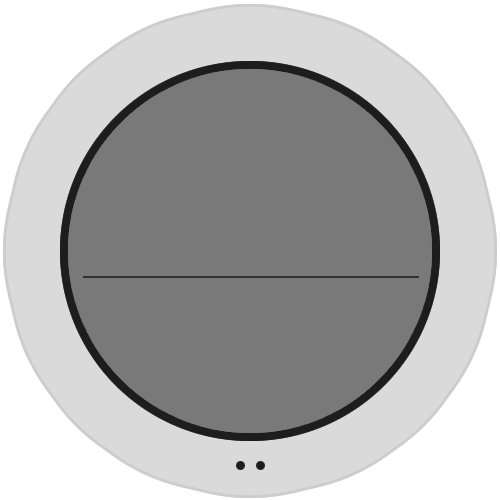
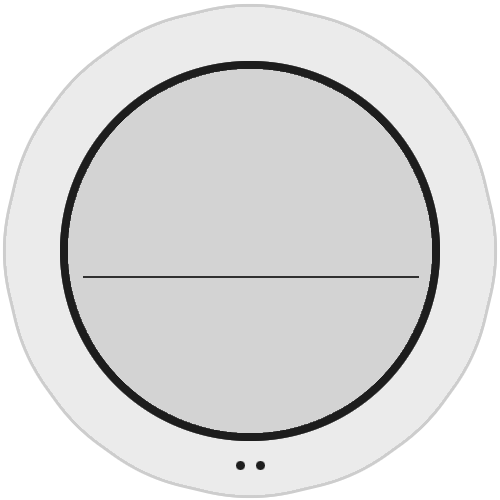
Adaptation HygroThermographe pour nextdom

diff --git a/views/templates/dashboard/cmd.info.numeric.HygroThermographe.html b/views/templates/dashboard/cmd.info.numeric.HygroThermographe.html
@@ -3,6 +3,8 @@
   <span class="intNumTemp fontDigital value"></span>
   <span class="decNumTemp fontDigital value"></span>
   <span class="uniteTemp fontDigital">°C</span>
+  <span class="numTempMin fontDigital value"></span>
+  <span class="numTempMax fontDigital value"></span>
   <span class="intNumHumidity fontDigital value"></span>
   <span class="decNumHumidity fontDigital value"></span>
   <span class="uniteHumidity fontDigital">%</span>
@@ -19,7 +21,7 @@
     .widget-hygrothermographe span.fontDigital{
       font-family: "Digital-7";
       position: absolute;
-      color: 	#181818;
+      color: #e0e4ea;
     }
     .widget-hygrothermographe span.fontDigital.value{
       transform : scale(0.7,1);
@@ -33,53 +35,102 @@
     }
     .widget-hygrothermographe span.intNumTemp {
       font-size:80px;
-      letter-spacing: 6px;
+      letter-spacing: 4px;
       top: 80px;
-      right: 7px;
+      right: 80px;
     }
     .widget-hygrothermographe span.decNumTemp {
       font-size:50px;
       top: 90px;
-      right: -30px;
-    }
-    .widget-hygrothermographe span.uniteTemp {
-      font-size:20px;
-      font-weight: bold;
-      top: 55px;
-      right: 85px;
+      right: 76px;
     }
     .widget-hygrothermographe span.intNumHumidity {
-      font-size: 65px;
-      letter-spacing: 6px;
-      top: 143px;
-      right: 4px;
+      font-size: 60px;
+      letter-spacing: 3px;
+      top: 145px;
+      right: 80px;
     }
     .widget-hygrothermographe span.decNumHumidity {
       font-size:35px;
-      top: 154px;
-      right: -32px;
+      top: 153px;
+      right: 79px;
+    }
+    .widget-hygrothermographe span.uniteTemp {
+      top: 55px;
+      right: 90px;
     }
     .widget-hygrothermographe span.uniteHumidity {
-      display : none;
-      font-size:20px;
-      font-weight: bold;
       top: 130px;
-      right: 85px;
+      right: 88px;
+    }
+    .widget-hygrothermographe span.uniteTemp ,
+    .widget-hygrothermographe span.uniteHumidity {
+       display : none;
+       font-weight: bold;
+    }
+    .widget-hygrothermographe span.numTempMax ,
+    .widget-hygrothermographe span.numTempMin,
+    .widget-hygrothermographe span.uniteTemp ,
+    .widget-hygrothermographe span.uniteHumidity {
+         font-family: "roboto";
+         font-size:18px;
+     }
+
+    .widget-hygrothermographe span.numTempMax ,
+    .widget-hygrothermographe span.numTempMin {
+         right: 36px;
+     }
+    .widget-hygrothermographe span.numTempMax {
+      color: lawngreen;
+      top: 80px;
+    }
+    .widget-hygrothermographe span.numTempMin {
+      color: #dd8c1a;
+      top: 97px;
     }
   </style>
   <script>
+    function setTheme(theme){
+      var cmd = $('.cmd[data-cmd_id=#id#]');
+      if (theme === 'Light') {
+        cmd.find('.hygrothermographe-background').attr('src', 'core/template/dashboard/cmd.info.numeric.HygroThermographe/No.ext_100_Light.png');
+        $('.widget-hygrothermographe span.fontDigital').css('color', '#181818');
+        $('.widget-hygrothermographe span.numTempMin').css('color', 'red');
+        $('.widget-hygrothermographe span.numTempMax').css('color', 'green');
+      } else {
+        cmd.find('.hygrothermographe-background').attr('src', 'core/template/dashboard/cmd.info.numeric.HygroThermographe/No.ext_100_Dark.png');
+        $('.widget-hygrothermographe span.fontDigital').css('color', '#e0e4ea');
+        $('.widget-hygrothermographe span.numTempMin').css('color', '#dd8c1a');
+        $('.widget-hygrothermographe span.numTempMax').css('color', 'lawngreen');
+      }
+    }
+
     nextdom.cmd.update['#id#'] = function(_options){
       var widget = $('.cmd[data-cmd_id=#id#]').closest('.eqLogic').find('.widget-hygrothermographe:first');
-      if('#generic_type#' === 'TEMPERATURE'){
-        var n = parseFloat(_options.display_value).toFixed(1);
-        var _int = n.split('.')[0];
-        var _dec = n.split('.')[1];
-        widget.find('.intNumTemp').text(_int+".").attr('title','Valeur du '+_options.valueDate+', collectée le '+_options.collectDate);
-        widget.find('.decNumTemp').text(_dec);
-      }else if('#generic_type#' === 'HUMIDITY'){
-        widget.find('.uniteHumidity').show();
-        widget.find('.intNumHumidity').text(Math.floor(_options.display_value)+".").attr('title','Valeur du '+_options.valueDate+', collectée le '+_options.collectDate);
-        widget.find('.decNumHumidity').text(Math.round((_options.display_value - Math.floor(_options.display_value)) * 10));
+      switch ('#generic_type#') {
+        case 'TEMPERATURE' :
+        case 'WEATHER_TEMPERATURE' :
+          var n = parseFloat(_options.display_value).toFixed(1);
+          var _int = n.split('.')[0];
+          var _dec = n.split('.')[1];
+          widget.find('.intNumTemp').text(_int+".").attr('title','Valeur du '+_options.valueDate+', collectée le '+_options.collectDate);
+          widget.find('.decNumTemp').text(_dec);
+          widget.find('.uniteTemp').show();
+          widget.find('.uniteTemp').text('#unite#');
+          break;
+        case 'HUMIDITY' :
+        case 'WEATHER_HUMIDITY' :
+          widget.find('.intNumHumidity').text(Math.floor(_options.display_value)+".").attr('title','Valeur du '+_options.valueDate+', collectée le '+_options.collectDate);
+          widget.find('.decNumHumidity').text(Math.round((_options.display_value - Math.floor(_options.display_value)) * 10));
+          widget.find('.uniteHumidity').show();
+          widget.find('.uniteHumidity').text('#unite#');
+          break;
+        case 'WEATHER_TEMPERATURE_MAX' :
+          widget.find('.numTempMax').text(parseFloat(_options.display_value).toFixed(1) + "°").attr('title','Valeur du '+_options.valueDate+', collectée le '+_options.collectDate);
+          break;
+        case 'WEATHER_TEMPERATURE_MIN' :
+          widget.find('.numTempMin').text(parseFloat(_options.display_value).toFixed(1) + "°").attr('title','Valeur du '+_options.valueDate+', collectée le '+_options.collectDate);
+          break;
       }
     };
     nextdom.cmd.update['#id#']({display_value:'#state#',valueDate:'#valueDate#',collectDate:'#collectDate#'});
@@ -89,49 +140,63 @@
         $('.cmd[data-cmd_id=#id#]').closest('.eqLogic').find('.widget-hygrothermographe:not(:first)').hide();
       }
     },100);
+    setTheme('#theme#');
 
     if('#scale#' !== '') {
       let cmd = $('.cmd[data-cmd_id=#id#]').closest('.eqLogic').find('.widget-hygrothermographe').first();
       if (cmd.attr('scaled') !== '1' && '#scale#' > 0) {
+        var margeTop = 0;
+         if ('#scale#' < 50) {
+          margeTop = 3;
+        } else if ('#scale#' < 60) {
+          margeTop = 2;
+        } else if ('#scale#' < 70) {
+          margeTop = 1;
+        }
         cmd.attr('scaled', '1');
         cmd.width(cmd.width()*'#scale#');
         cmd.height(cmd.height()*'#scale#');
         cmd.find('.hygrothermographe-background').width(cmd.find('.hygrothermographe-background').width()*'#scale#');
         cmd.find('.hygrothermographe-background').height(cmd.find('.hygrothermographe-background').height()*'#scale#');
         cmd.find('.intNumTemp').css('font-size',(cmd.find('.intNumTemp').css('font-size').replace(/px/i, '')*'#scale#')+'px')
-        .css('top',(cmd.find('.intNumTemp').css('top').replace(/px/i, '')*'#scale#')+'px')
-        .css('right',(cmd.find('.intNumTemp').css('right').replace(/px/i, '')*'#scale#')+'px');
+        .css('top',(cmd.find('.intNumTemp').css('top').replace(/px/i, '')*'#scale#'-margeTop)+'px')
+        .css('right',(cmd.find('.intNumTemp').css('right').replace(/px/i, '')*'#scale#')+'px')
+        .css('letter-spacing',(cmd.find('.intNumTemp').css('letter-spacing').replace(/px/i, '')*'#scale#')+'px');
         cmd.find('.decNumTemp').css('font-size',(cmd.find('.decNumTemp').css('font-size').replace(/px/i, '')*'#scale#')+'px')
-        .css('top',(cmd.find('.decNumTemp').css('top').replace(/px/i, '')*'#scale#')+'px')
+        .css('top',(cmd.find('.decNumTemp').css('top').replace(/px/i, '')*'#scale#'-margeTop)+'px')
         .css('right',(cmd.find('.decNumTemp').css('right').replace(/px/i, '')*'#scale#')+'px');
         cmd.find('.uniteTemp').css('font-size',(cmd.find('.uniteTemp').css('font-size').replace(/px/i, '')*'#scale#')+'px')
-        .css('top',(cmd.find('.uniteTemp').css('top').replace(/px/i, '')*'#scale#')+'px')
+        .css('top',(cmd.find('.uniteTemp').css('top').replace(/px/i, '')*'#scale#'-margeTop)+'px')
         .css('right',(cmd.find('.uniteTemp').css('right').replace(/px/i, '')*'#scale#')+'px');
         cmd.find('.intNumHumidity').css('font-size',(cmd.find('.intNumHumidity').css('font-size').replace(/px/i, '')*'#scale#')+'px')
         .css('top',(cmd.find('.intNumHumidity').css('top').replace(/px/i, '')*'#scale#')+'px')
-        .css('right',(cmd.find('.intNumHumidity').css('right').replace(/px/i, '')*'#scale#')+'px');
+        .css('right',(cmd.find('.intNumHumidity').css('right').replace(/px/i, '')*'#scale#')+'px')
+        .css('letter-spacing',(cmd.find('.intNumHumidity').css('letter-spacing').replace(/px/i, '')*'#scale#')+'px');
         cmd.find('.decNumHumidity').css('font-size',(cmd.find('.decNumHumidity').css('font-size').replace(/px/i, '')*'#scale#')+'px')
         .css('top',(cmd.find('.decNumHumidity').css('top').replace(/px/i, '')*'#scale#')+'px')
         .css('right',(cmd.find('.decNumHumidity').css('right').replace(/px/i, '')*'#scale#')+'px');
         cmd.find('.uniteHumidity').css('font-size',(cmd.find('.uniteHumidity').css('font-size').replace(/px/i, '')*'#scale#')+'px')
         .css('top',(cmd.find('.uniteHumidity').css('top').replace(/px/i, '')*'#scale#')+'px')
         .css('right',(cmd.find('.uniteHumidity').css('right').replace(/px/i, '')*'#scale#')+'px');
+        cmd.find('.numTempMin').css('font-size',(cmd.find('.numTempMin').css('font-size').replace(/px/i, '')*'#scale#')+'px')
+        .css('top',(cmd.find('.numTempMin').css('top').replace(/px/i, '')*'#scale#')+'px')
+        .css('right',(cmd.find('.numTempMin').css('right').replace(/px/i, '')*'#scale#')+'px');
+        cmd.find('.numTempMax').css('font-size',(cmd.find('.numTempMax').css('font-size').replace(/px/i, '')*'#scale#')+'px')
+        .css('top',(cmd.find('.numTempMax').css('top').replace(/px/i, '')*'#scale#')+'px')
+        .css('right',(cmd.find('.numTempMax').css('right').replace(/px/i, '')*'#scale#')+'px');
       }
     }
 
     if ($('body')[0].hasAttribute('data-theme')) {
+       var theme = 'Dark';
       if ($('body').attr('data-theme').endsWith('Light')) {
-        $('.cmd[data-cmd_id=#id#]').find('.hygrothermographe-background').attr('src', 'core/template/dashboard/cmd.info.numeric.HygroThermographe/No.ext_100_Light.png');
+          theme = 'Light';
       }
+      setTheme(theme);
     }
 
     $('body').on('changeThemeEvent', function (event, theme) {
-      var cmd = $('.cmd[data-cmd_id=#id#]');
-      if (theme === 'Light') {
-        cmd.find('.hygrothermographe-background').attr('src', 'core/template/dashboard/cmd.info.numeric.HygroThermographe/No.ext_100_Light.png');
-      } else {
-        cmd.find('.hygrothermographe-background').attr('src', 'core/template/dashboard/cmd.info.numeric.HygroThermographe/No.ext_100_Dark.png');
-      }
+        setTheme(theme);
     });
   </script>
 </div>
